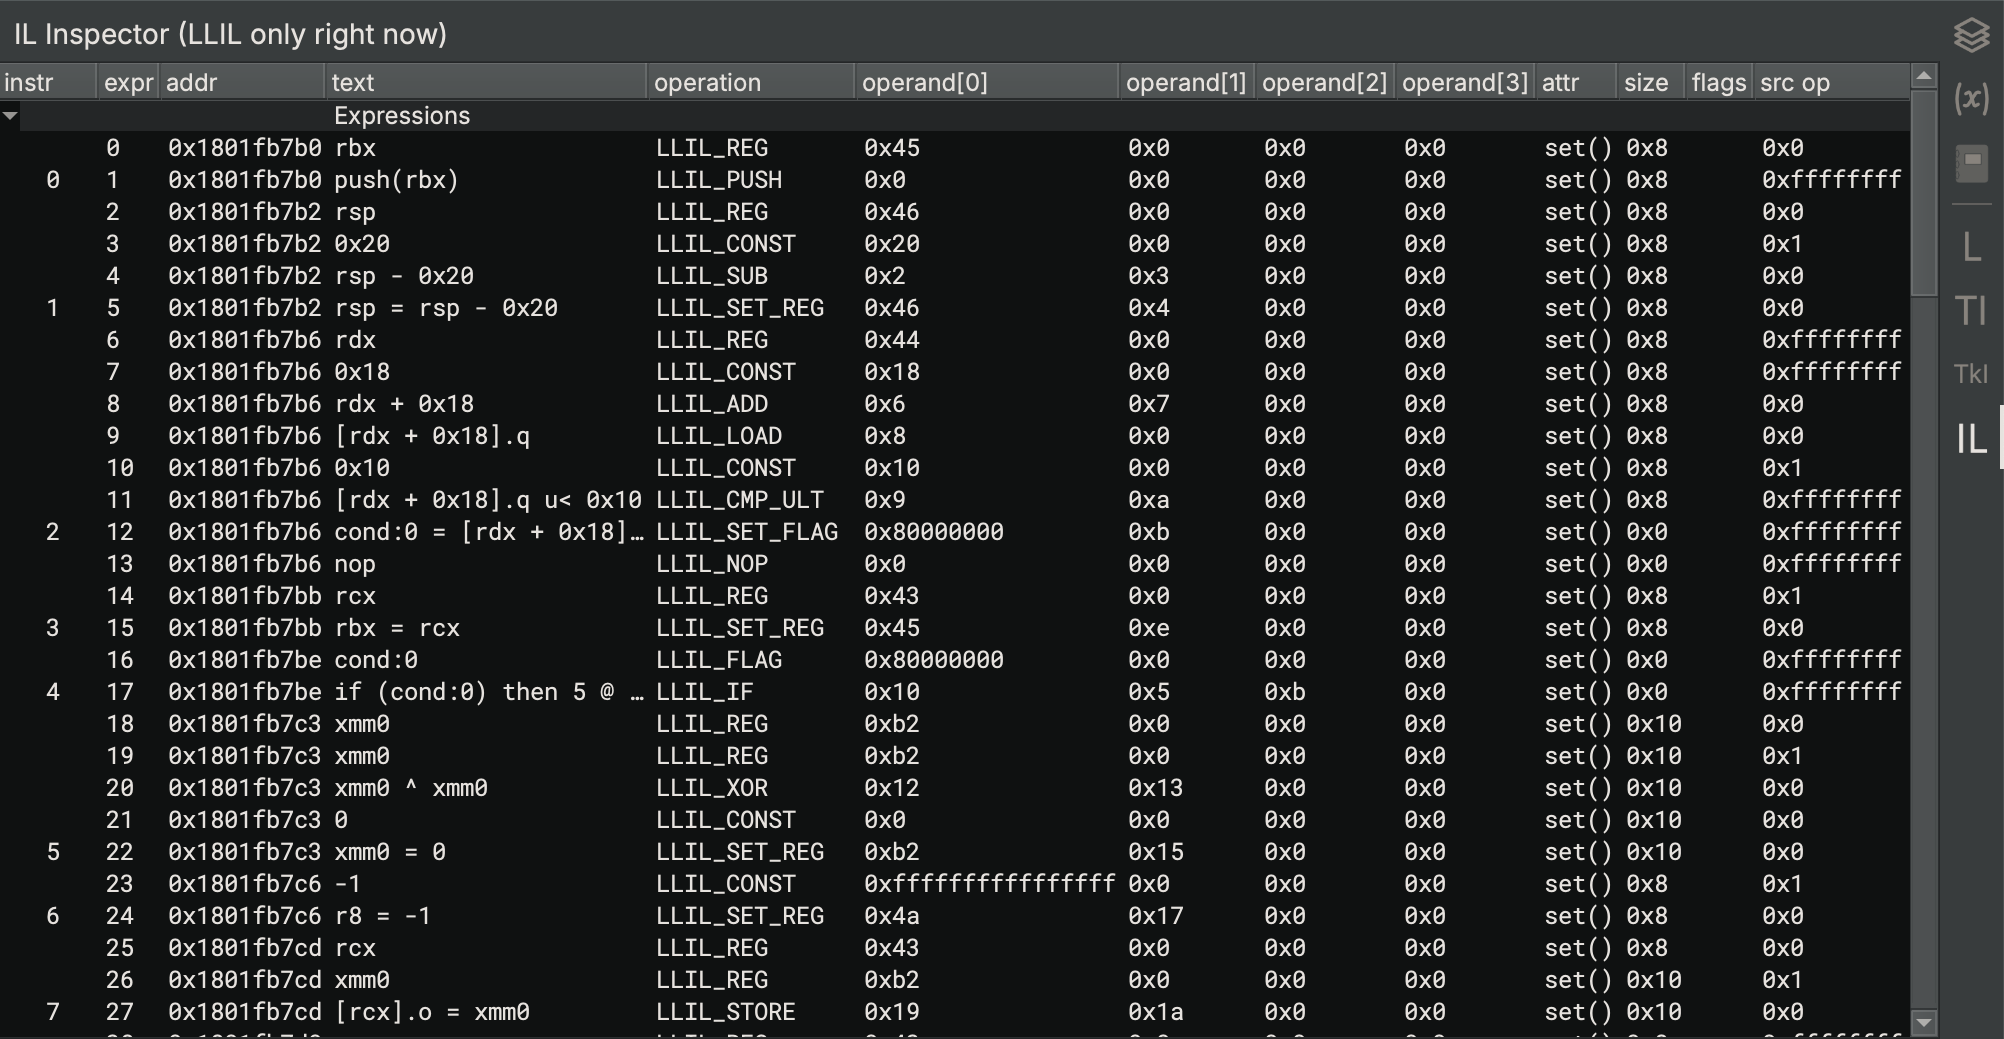
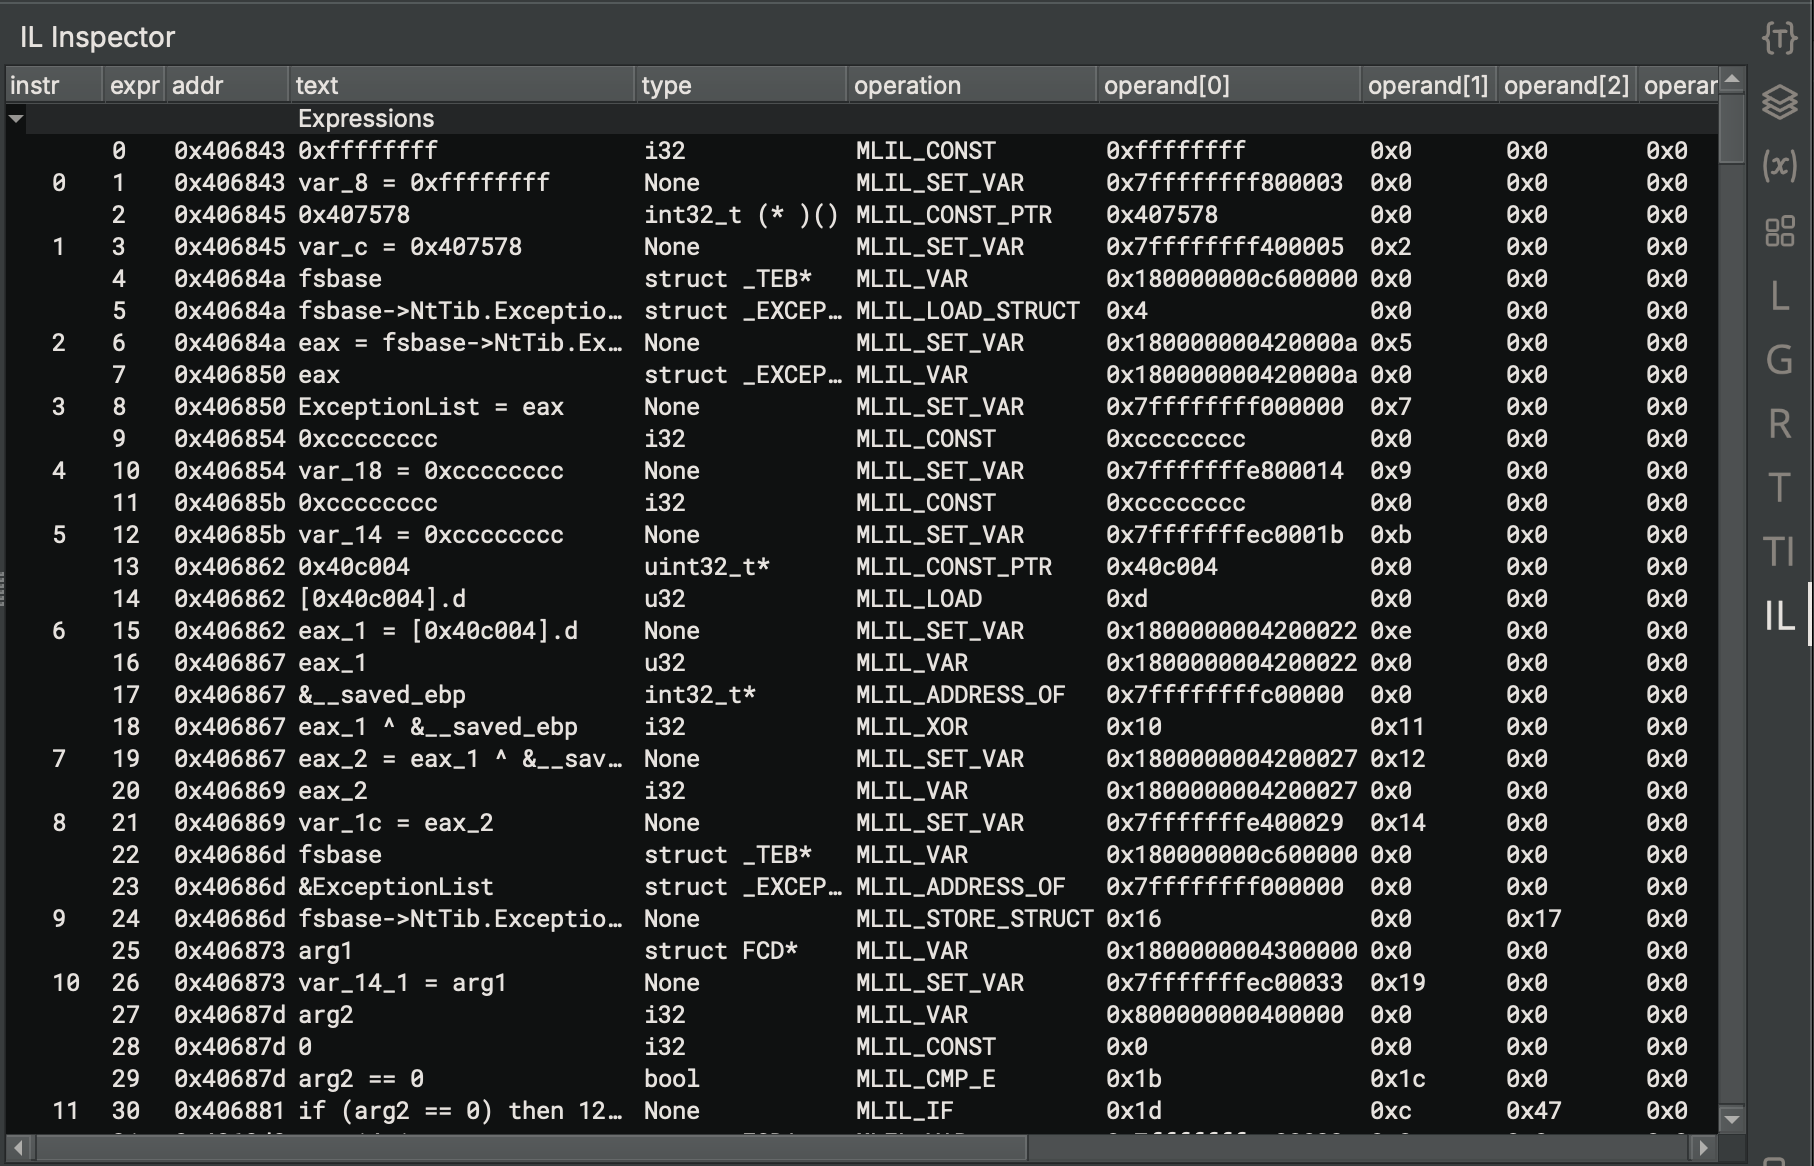
Make this look more like a plugin

diff --git a/README.md b/README.md
@@ -25,10 +25,15 @@ Shows you the contents of the tree structure of Linear View
 
 ![alt text](img/linear_inspector.png)
 
-## IL Inspector (LLIL Only Currently)
-See all the details of all the IL expressions and instructions in a function
+## IL Inspector
+See all the details of all the IL expressions and instructions in a function.
 
 ![alt text](img/il_inspector.png)
+
+## Register Inspector
+See the values of all registers used in the function, and if they changed at the current address.
+
+![alt text](img/register_inspector.png)
 
 ## License
 
